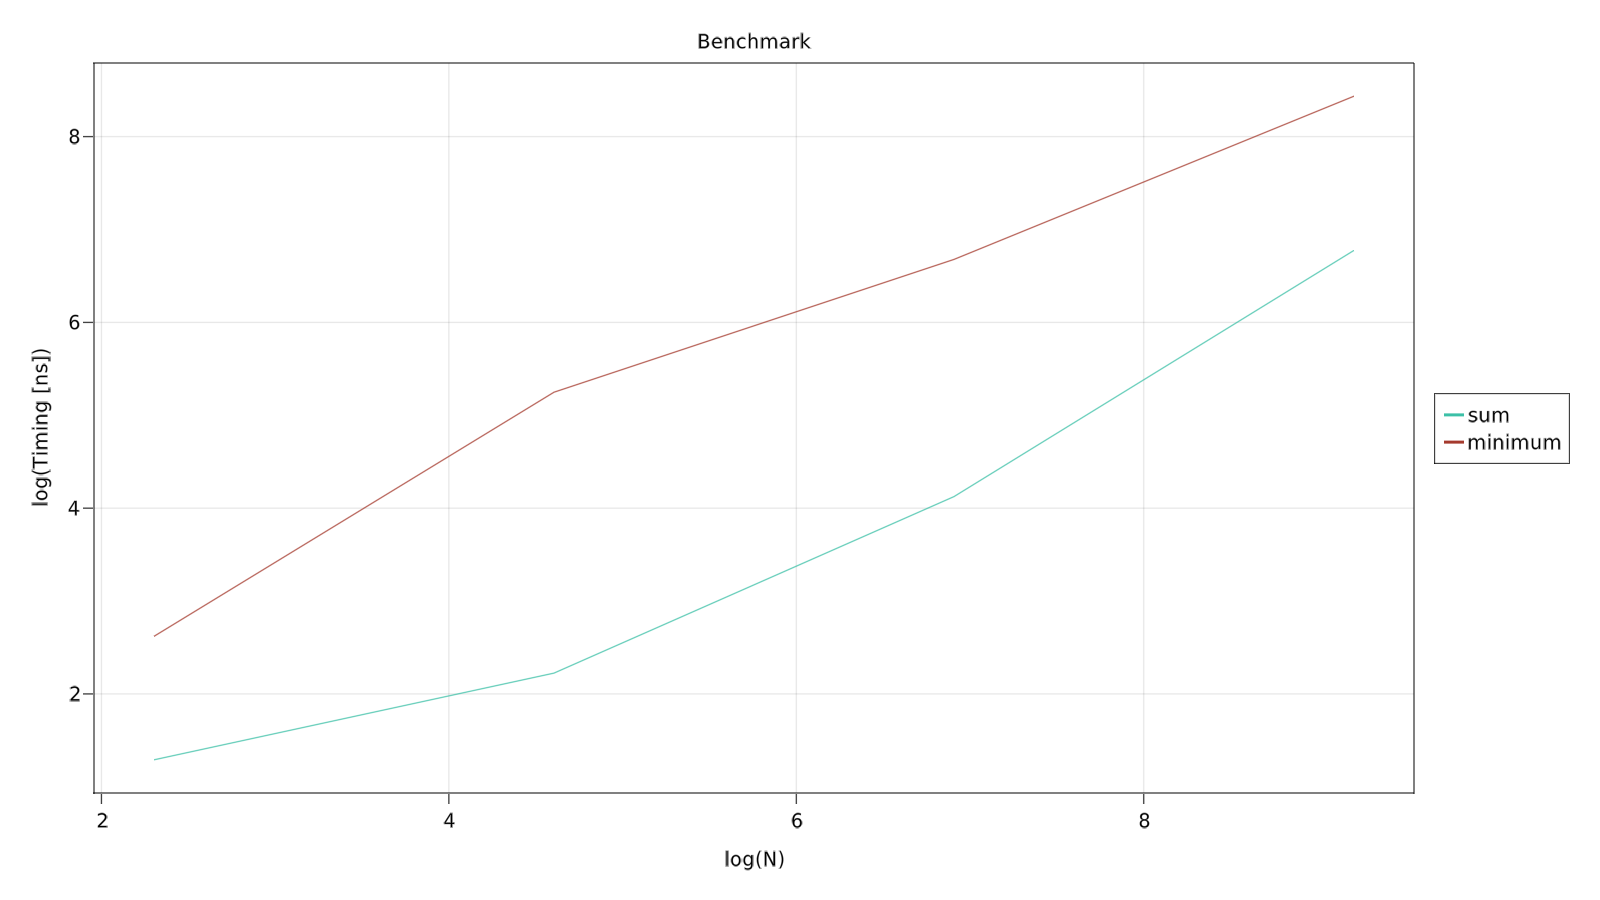
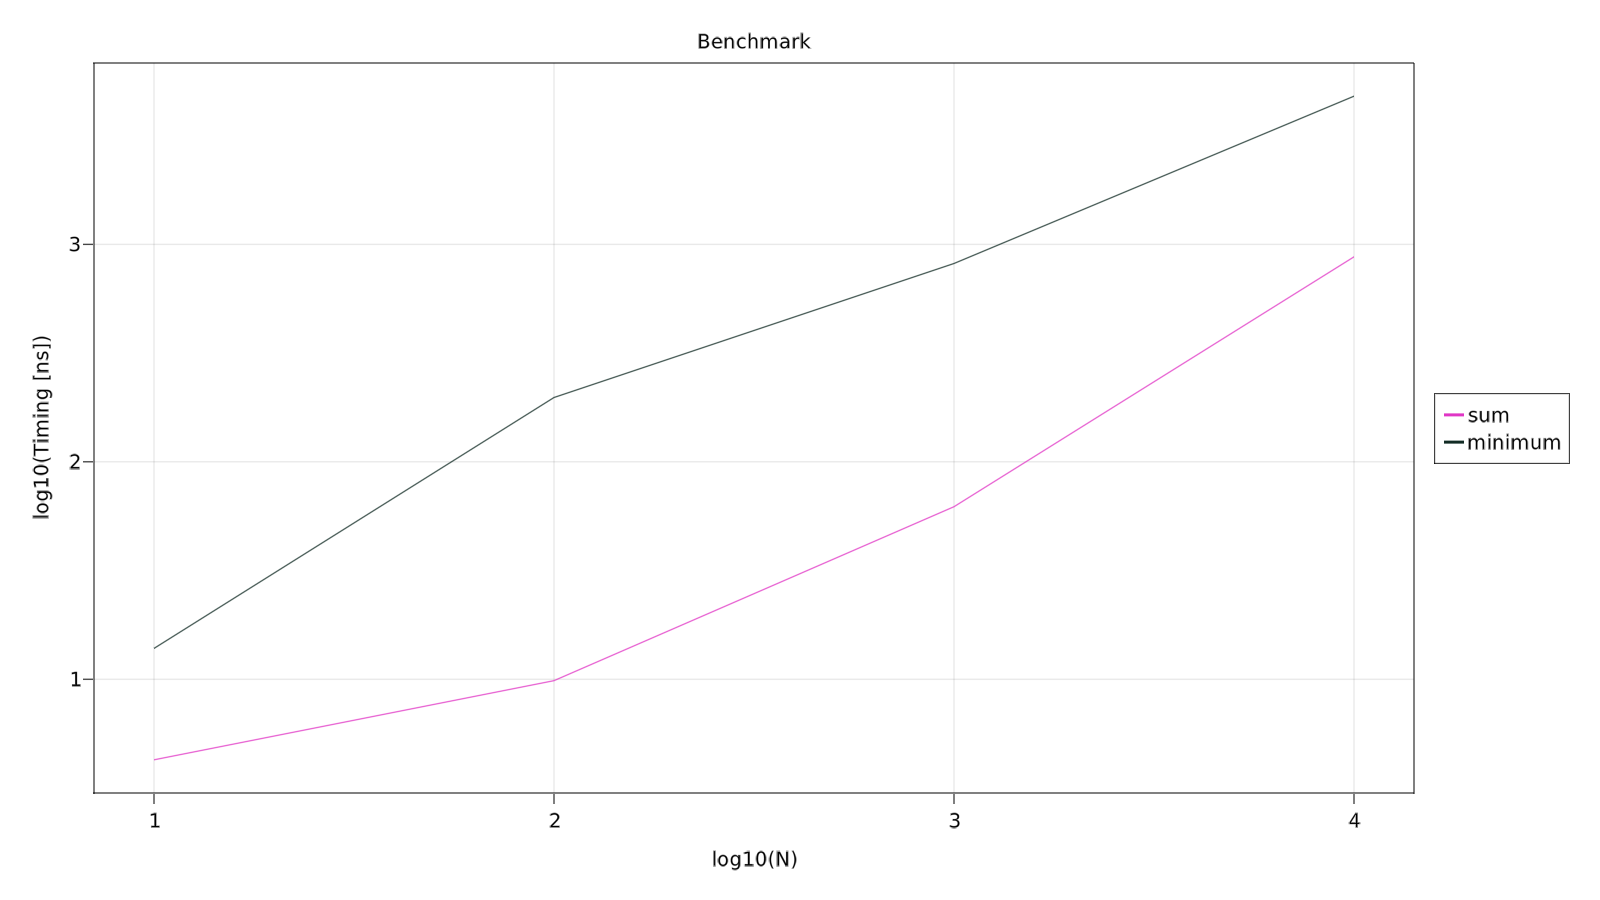
log10

diff --git a/Readme.md b/Readme.md
@@ -37,7 +37,7 @@ search: benchmarkplot BenchmarkPlots
 
   Benchmark multiple functions using different lengths of data generated by function gen. NumData is an Array or other iteratables. Returns a Tuple of scene. scene and layout are defined in Makie.
 
-  Core Algorithm  
+  Core Algorithm
   ≡≡≡≡≡≡≡≡≡≡≡≡≡≡≡≡
 
   For each element in NumData:
@@ -53,11 +53,11 @@ search: benchmarkplot BenchmarkPlots
 
     •  title: figure title. Default is "Benchmark"
 
-    •  logscale: If true, plot axes in log scale. Default is true.
+    •  logscale: If true, plot axes in log10 scale. Default is true.
 
-    •  xlabel: label of x-axis. Default is logscale ? "log(N)" : "N"
+    •  xlabel: label of x-axis. Default is logscale ? "log10(N)" : "N"
 
-    •  ylabel: label of y-axis. Default is logscale ? "log(Timing [ns])" : "Timing [ns]"
+    •  ylabel: label of y-axis. Default is logscale ? "log10(Timing [ns])" : "Timing [ns]"
 
     •  resolution: figure resolution. Default is (1600, 900)
 
@@ -65,16 +65,16 @@ search: benchmarkplot BenchmarkPlots
 
     •  colors: colors of each benchmark line. Default is nothing, meaning random colors are assigned to lines.
 
-    •  savelog::Bool: If true, save processed data in csv. The name of log file depends on analysis function
+    •  savelog::Bool: If true, save processed data in csv. The name of logging file depends on analysis function
 
-    •  savefolder: set the directory to save log file
+    •  savefolder: set the directory to save logging file
 
     •  stairplot: If true, plot line in stair style (which is more concrete). Default is true
 
   Examples
   ≡≡≡≡≡≡≡≡≡≡
 
-  using BenchmarkTools, Makie
+  using BenchmarkPlots, Makie
   scene, layout, timings = benchmarkplot(
       [sum, minimum],
       rand,
